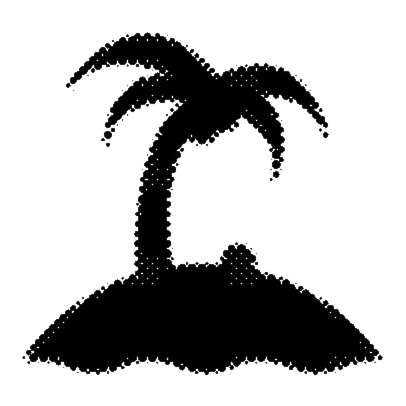
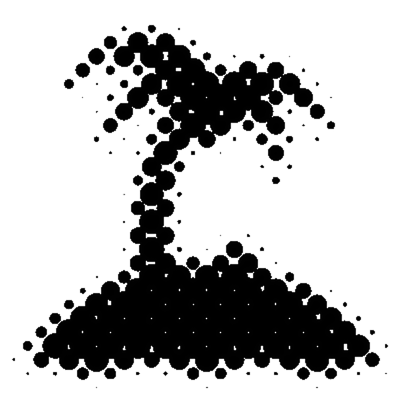
Swap island art for chunkier halftone version

Changed region(s): [[0.0591, 0.0591, 0.9458, 0.9458], [0.798, 0.798, 0.8276, 0.8276], [0.266, 0.7389, 0.2956, 0.7685]]

diff --git a/index.html b/index.html
@@ -4,7 +4,7 @@
 <meta charset="UTF-8">
 <meta name="viewport" content="width=device-width, initial-scale=1.0">
 <title>Salt Spring Ish</title>
-<link rel="icon" type="image/png" href="island.png">
+<link rel="icon" type="image/png" href="island.png?v=2">
 <link href="https://fonts.googleapis.com/css2?family=Geist+Mono:wght@300;400;500;700&display=swap" rel="stylesheet">
 <script src="https://cdnjs.cloudflare.com/ajax/libs/Chart.js/4.4.1/chart.umd.js"></script>
 <style>
@@ -249,7 +249,7 @@
 
     <!-- Header -->
     <div class="r-header">
-      <img src="island.png" width="44" height="44" alt="" aria-hidden="true">
+      <img src="island.png?v=2" width="44" height="44" alt="" aria-hidden="true">
       <span class="r-header-label">Trip Estimated Cost</span>
     </div>
 